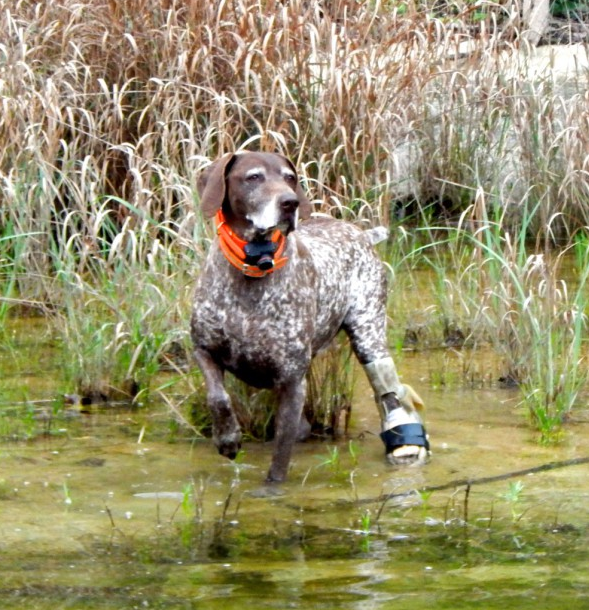
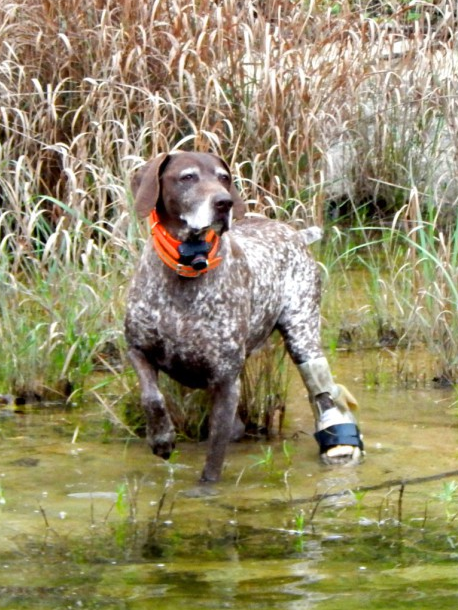
Edits to “Prosthetics” and product-block styles
Now both blocks use a portrait image

Changed the second row from 6-6 to 5-7
Looks better at the smaller end of large (1024)

diff --git a/src/pages/products.php b/src/pages/products.php
@@ -26,17 +26,17 @@ layout: products
 <section class="wide" id="product-definitions">
 	<div class="row expanded">
 		<div class="medium-6 columns">
-			<div class="product-block">
+			<div class="product-block" id="orthotics">
 				<div class="row description">
 					<h2 class="title text-center">Orthotics</h2>
 					<h3 class="text-center">Custom Bracing</h3>
 					<p>An Orthosis can improve the quality of life and mobility of an animal for a wide variety of conditions.</p>
 				</div>
 				<div class="row collapse">
-					<div class="large-6 columns product-image">
+					<div class="large-5 columns product-image">
 						<img class="frame" src="/img/products/orthotics/product-block-image/orthotics-1.png" alt="Dog With Orthesis">
 					</div>
-					<div class="large-6 columns reasons">
+					<div class="large-7 columns reasons">
 						<p>Orthotic devices are fitted for:</p>
 						<ul>
 							<li>Post-Surgical Support</li>
@@ -51,11 +51,27 @@ layout: products
 			</div>
 		</div>
 		<div class="medium-6 columns">
-			<div class="product-block">
-				<div class="row">
+			<div class="product-block" id="prosthetics">
+				<div class="row description">
 					<h2 class="title text-center">Prosthetics</h2>
 					<h3 class="text-center">Custom Artificial Limbs</h3>
-					<p class="large">A Prosthetic can improve an animal’s mobility and overall well-being, especially as they age.</p>
+					<p>A Prosthetic can improve an animal’s mobility and overall well-being, especially as they age.</p>
+				</div>
+				<div class="row collapse">
+					<div class="large-5 columns product-image">
+						<img class="frame" src="/img/products/prosthetics/product-block-image/prosthetics-1.jpg" alt="Dog With Prosthesis">
+					</div>
+					<div class="large-7 columns reasons">
+						<p>Orthotic devices are fitted for:</p>
+						<ul>
+							<li>Post-Surgical Support</li>
+							<li>Trauma</li>
+							<li>Birth Defect</li>
+							<li>Arthritis</li>
+							<li>Rehabilitation</li>
+						</ul>
+						<a href="#" class="button expanded ordering-button heading">Ordering Info</a>
+					</div>
 				</div>
 			</div>
 		</div>
